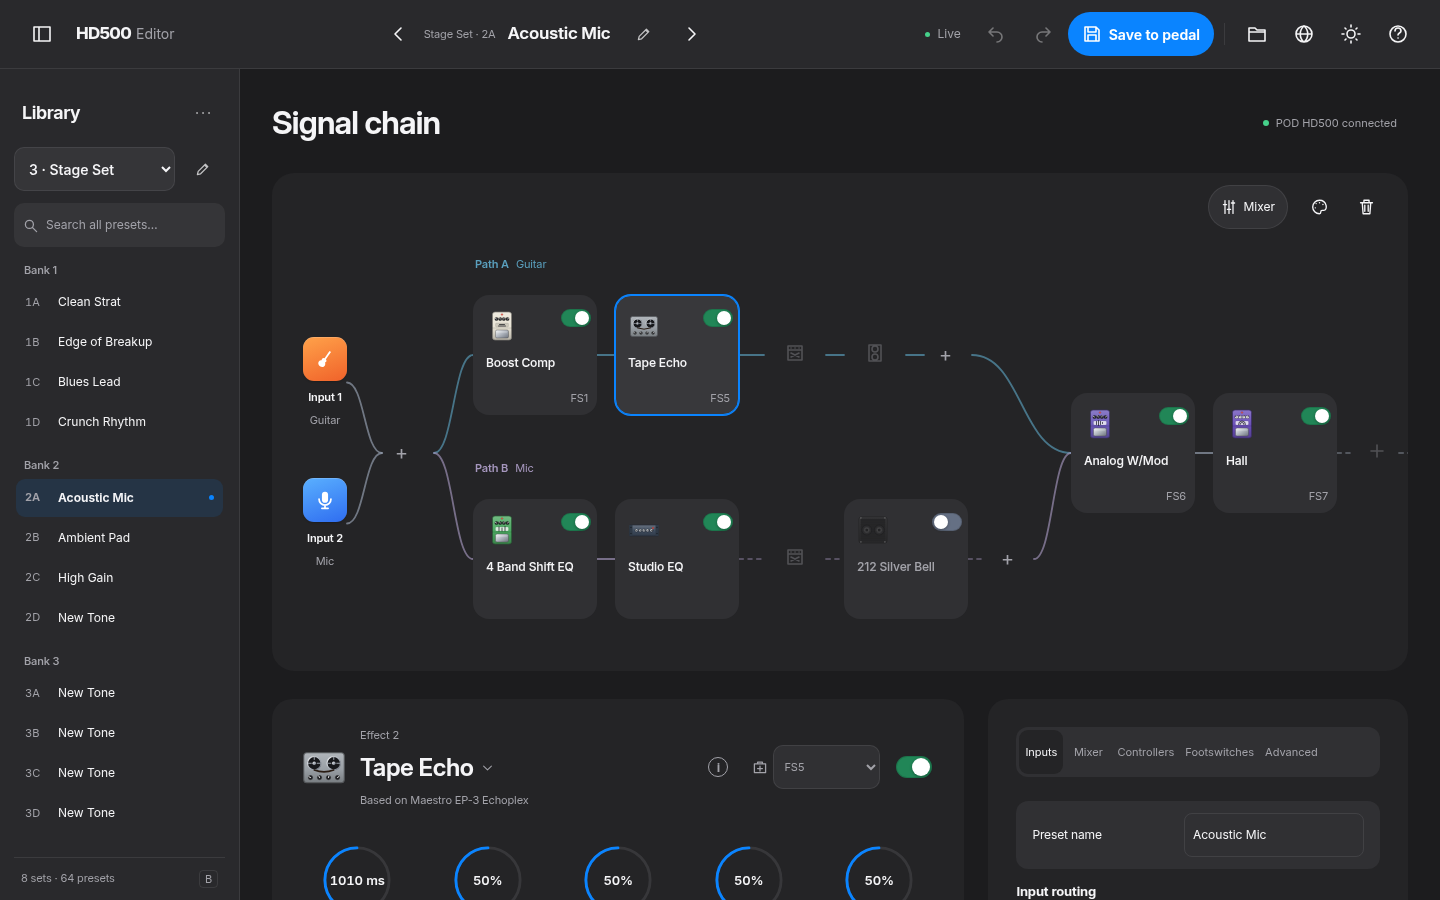
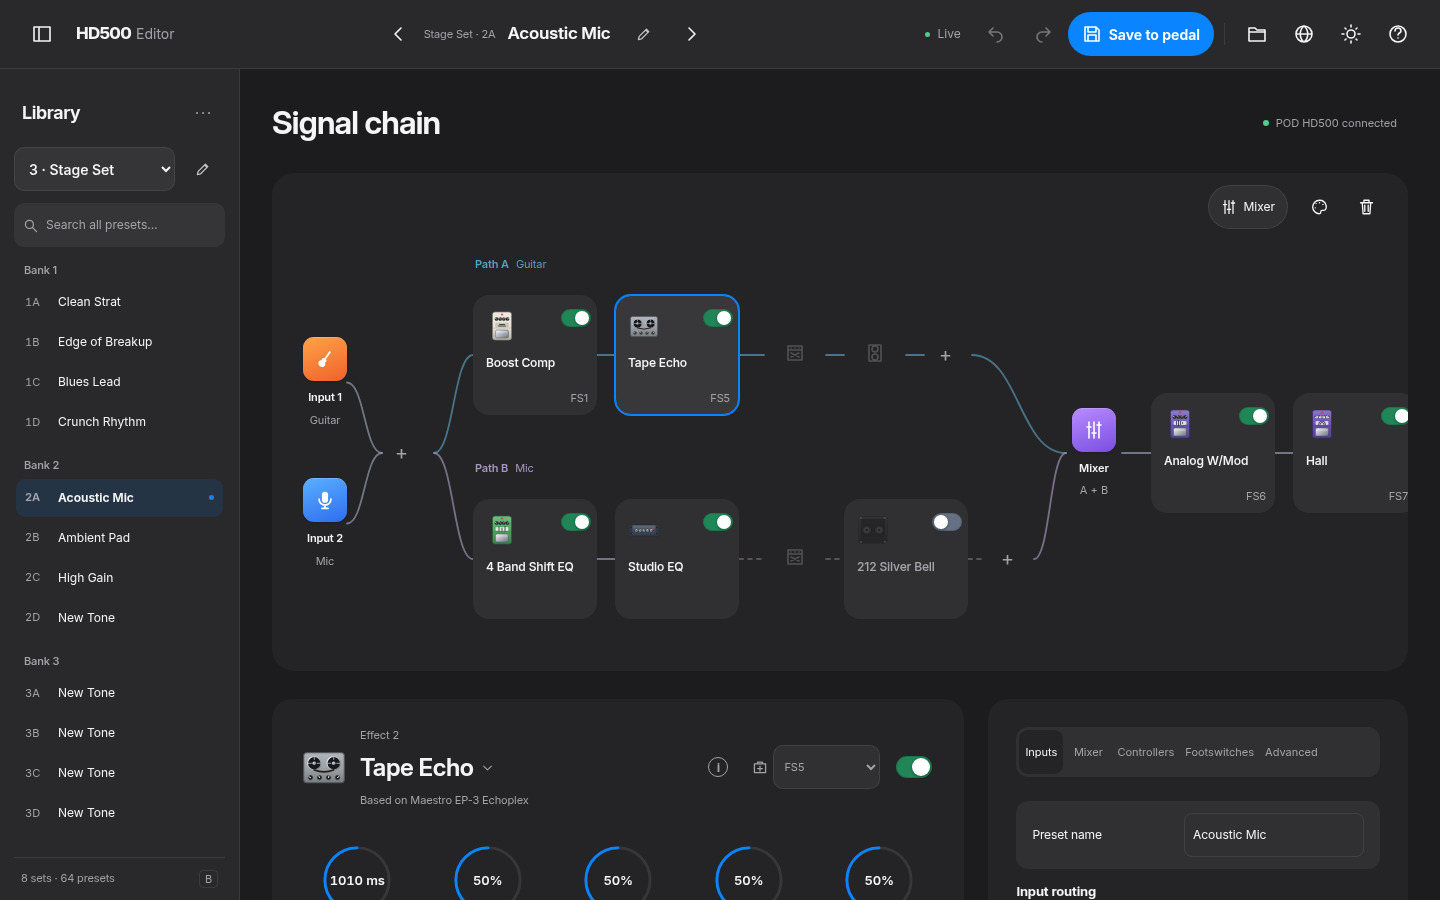
Mixer node at the A/B merge point in the signal chain

Changed region(s): [[0.7188, 0.4356, 1.0, 0.56], [0.6875, 0.4356, 0.7188, 0.4667]]

diff --git a/app/public/js/chain.js b/app/public/js/chain.js
@@ -177,6 +177,7 @@ export function renderChain(root) {
       h('div',{class:'input-source',dataset:{source:2}},ioTile(sourceIcon(inName(setup.input2===0?setup.input1:setup.input2))),h('b',{},'Input 2'),h('span',{class:'source'},inName(setup.input2)))),
     Lane('pre','Before · shared',c.pre),
     h('div',{class:'paths'},row('A',0,1,'aPre','aPost'),row('B',2,3,'bPre','bPost')),
+    h('button',{class:'io mix-node',id:'chainMixer',type:'button',title:'Mixer: level and pan of paths A and B (M)','aria-label':'Open the mixer',onClick:()=>document.dispatchEvent(new Event('open-mixer'))},h('span',{class:'io-tile io-mixer'},icon('mixer')),h('b',{},'Mixer'),h('span',{},'A + B')),
     Lane('post','After · mix',c.post),h('div',{class:'io',id:'chainOutput'},ioTile('output'),h('b',{},'Output'),h('span',{},'Stereo')));
   resizeObserver?.disconnect(); resizeObserver=new ResizeObserver(()=>drawWires()); resizeObserver.observe(root);
   requestAnimationFrame(drawWires);
@@ -197,8 +198,8 @@ function drawWires() {
 
   };
   const sequence=nodes=>nodes.forEach((n,i)=>i&&join(nodes[i-1],n));
-  const before=lane('pre'),after=lane('post');sequence([root.querySelector('[data-source="1"]'),...before]);join(root.querySelector('[data-source="2"]'),before[0]);sequence([...after,root.querySelector('#chainOutput')]);
-  for(const [pre,amp,cab,post]of[['aPre',0,1,'aPost'],['bPre',2,3,'bPost']]) sequence([before.at(-1),...lane(pre),node(amp),node(cab),...lane(post),after[0]]);
+  const before=lane('pre'),after=lane('post');sequence([root.querySelector('[data-source="1"]'),...before]);join(root.querySelector('[data-source="2"]'),before[0]);const mix=root.querySelector('#chainMixer');join(mix,after[0]);sequence([...after,root.querySelector('#chainOutput')]);
+  for(const [pre,amp,cab,post]of[['aPre',0,1,'aPost'],['bPre',2,3,'bPost']]) sequence([before.at(-1),...lane(pre),node(amp),node(cab),...lane(post),mix]);
 }
 export function flashItem(id) {
   const el=document.querySelector(`.block[data-item="${id}"]`);if(!el)return;

diff --git a/app/public/js/main.js b/app/public/js/main.js
@@ -192,6 +192,7 @@ $('#librarySidebar').addEventListener('keydown',e=>{
 // atalho para o Mixer: abre a aba e leva o painel para a tela (ele fica abaixo da cadeia em telas baixas)
 const openMixer = () => { S.tab = 'mixer'; renderSide(); document.querySelector('#side')?.scrollIntoView({ behavior: matchMedia('(prefers-reduced-motion: reduce)').matches ? 'auto' : 'smooth', block: 'center' }); };
 { const b = $('#openMixer'); b.append(icon('mixer'), document.createTextNode('Mixer')); b.onclick = openMixer; }
+document.addEventListener('open-mixer', openMixer);
 addEventListener('keydown', e => { if (!e.ctrlKey && !e.metaKey && !e.altKey && e.key.toLowerCase() === 'm' && !e.target.matches('input, textarea, select, [contenteditable]')) openMixer(); });
 
 // lápis visíveis: renomear o preset atual e o set atual

diff --git a/app/public/css/app.css b/app/public/css/app.css
@@ -533,7 +533,7 @@ h1 {
 #chain {
   position:relative;
   display:grid;
-  grid-template-columns:66px auto minmax(360px,1fr) auto 66px;
+  grid-template-columns:66px auto minmax(360px,1fr) 56px auto 66px;
   align-items:center;
   gap:24px;
   min-width:max-content;
@@ -1998,3 +1998,8 @@ main { gap:28px; padding:32px; }
 .io-input { --tile-a:#9aa3b2; --tile-b:#6a7383; }
 .io-output { --tile-a:#4fd67c; --tile-b:#23a559; }
 .io b { margin-top:2px; }
+
+.mix-node { background:transparent; border:0; padding:0; cursor:pointer; color:var(--dim); min-width:56px; min-height:0; }
+.io-mixer { --tile-a:#b88cff; --tile-b:#7a4ee0; }
+.mix-node:hover .io-tile { filter:brightness(1.08); }
+.mix-node:focus-visible { outline:2px solid var(--accent); outline-offset:4px; border-radius:12px; }
